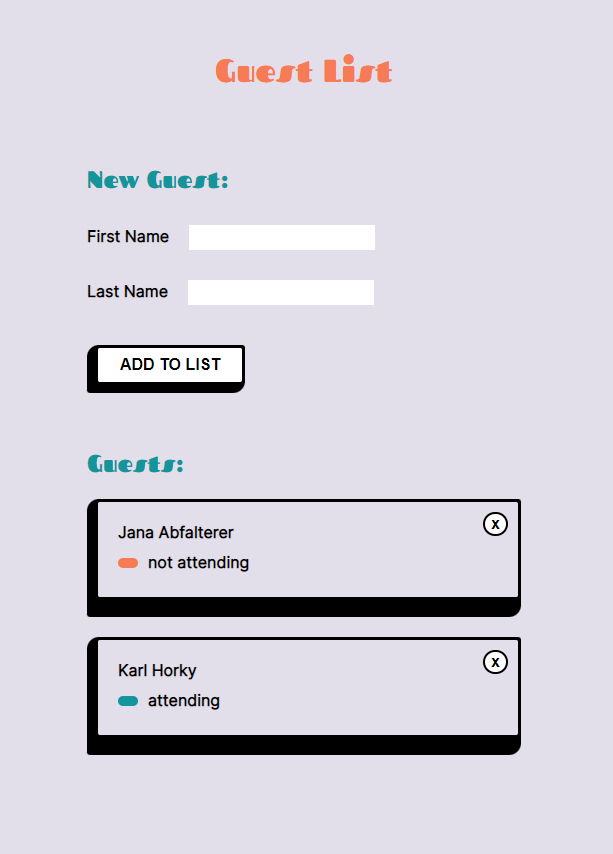
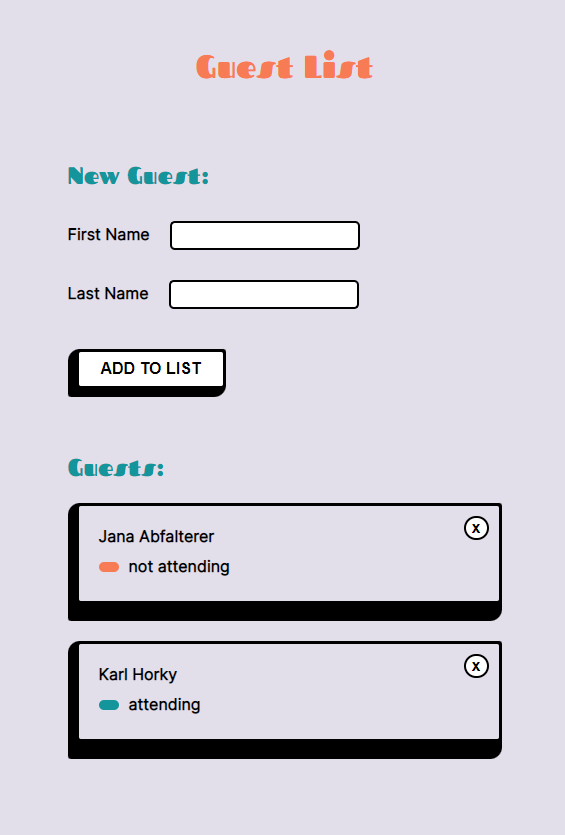
Update input style

diff --git a/src/App.css b/src/App.css
@@ -10,19 +10,16 @@
 }
 
 input {
-  /* font-family: 'Fascinate', cursive; */
-  border: none;
+  border-color: #000000;
   background-color: white;
   margin: 10px 20px 20px;
   padding: 5px;
+  border-radius: 5px;
 }
 
 input:focus {
   outline: none;
-  border-top: none;
-  border-right: none;
-  border-bottom: 3px black;
-  border-left: 3px black;
+  border-color: #f77b55;
 }
 
 input[type='checkbox'] {
